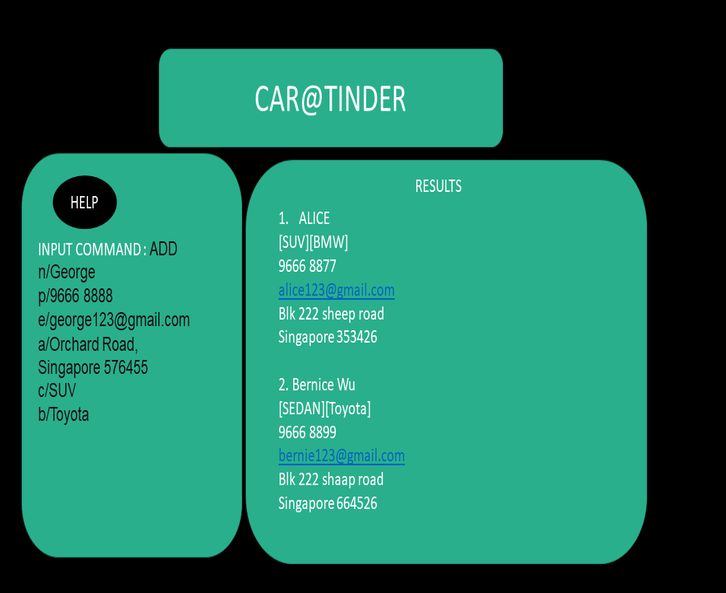
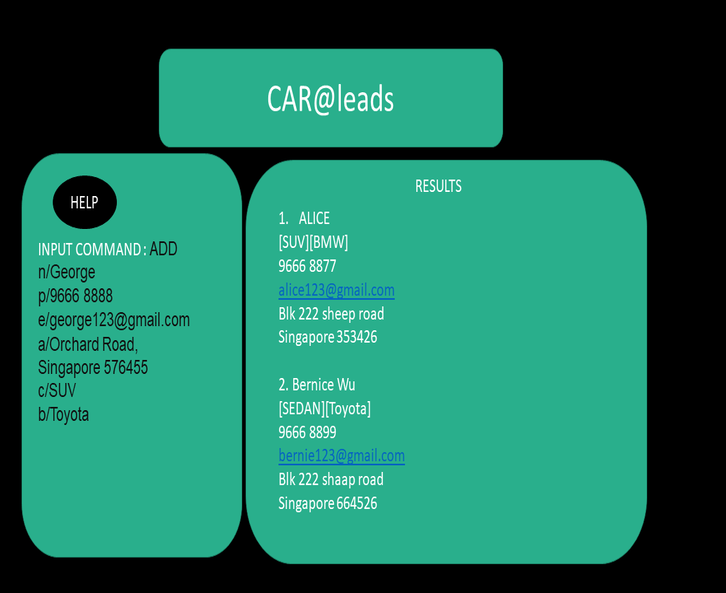
Update README and _config.yml
Change project title to Car@leads instead of Car@tinder

Changed region(s): [[0.3333, 0.1214, 0.5758, 0.2125]]

diff --git a/README.md b/README.md
@@ -4,10 +4,10 @@
 * This project is based on the AddressBook-Level3 project created by the [SE-EDU initiative](https://se-education.org).
   
 * This is **project for Software Engineering (SE) students**.<br>
-* The project simulates an ongoing software project for a desktop application (called _Car@Tinder_) <br>
+* The project simulates an ongoing software project for a desktop application (called _Car@leads_) <br>
   used for managing car customers contacts .
   * It is **written in OOP fashion**. It provides a **reasonably well-written** code base **bigger** <br>
     (around 6 KLoC) than what students usually write in beginner-level SE modules, without being overwhelmingly big.
   * It comes with a **reasonable level of user and developer documentation**.
-* It is named `Car@Tinder` because we want car salesperson users to match their cars with the right customers.
-* For the detailed documentation of this project, see the **[Car@Tinder Product Website](https://ay2021s2-cs2103t-w12-2.github.io/tp/)**.
+* It is named `Car@leads` because we want car salesperson users to match their cars with the right customers.
+* For the detailed documentation of this project, see the **[Car@leads Product Website](https://ay2021s2-cs2103t-w12-2.github.io/tp/)**.
